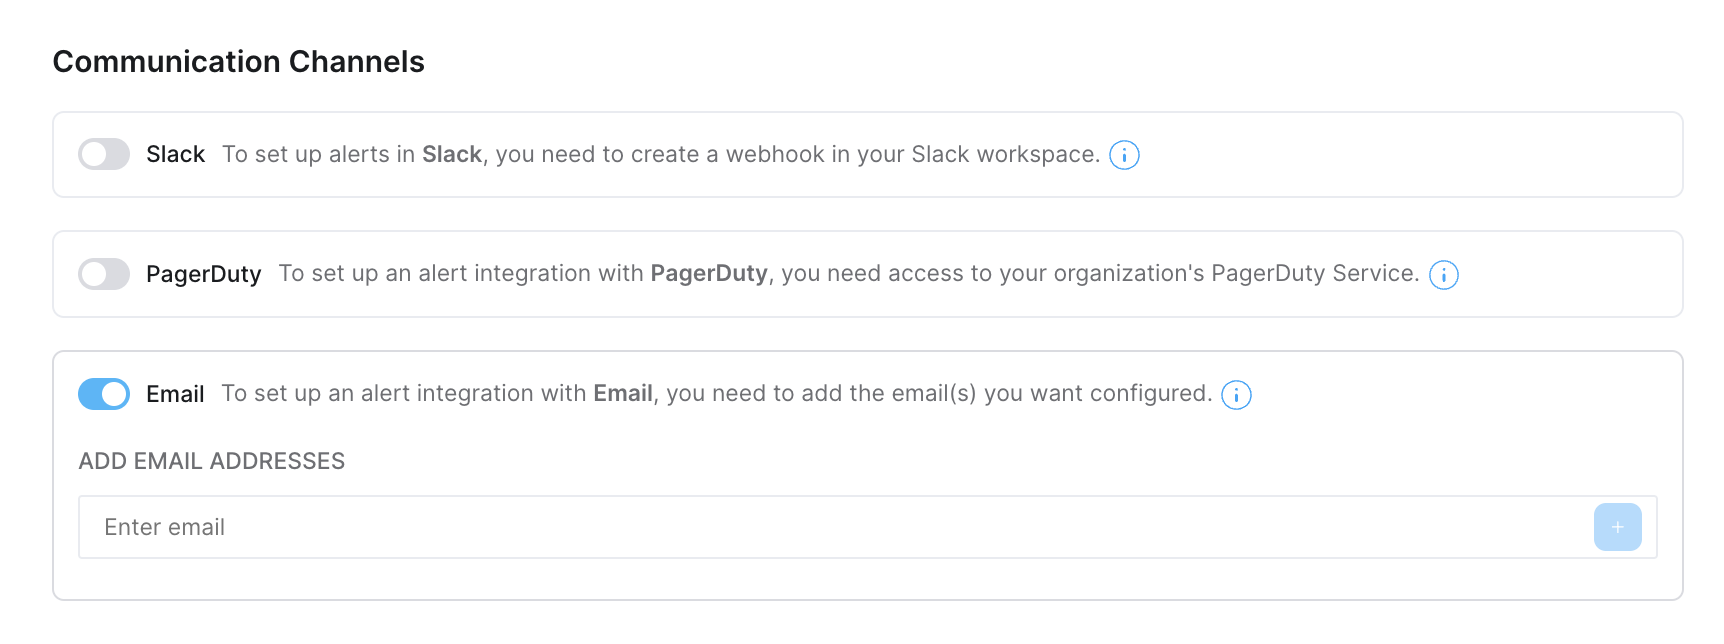
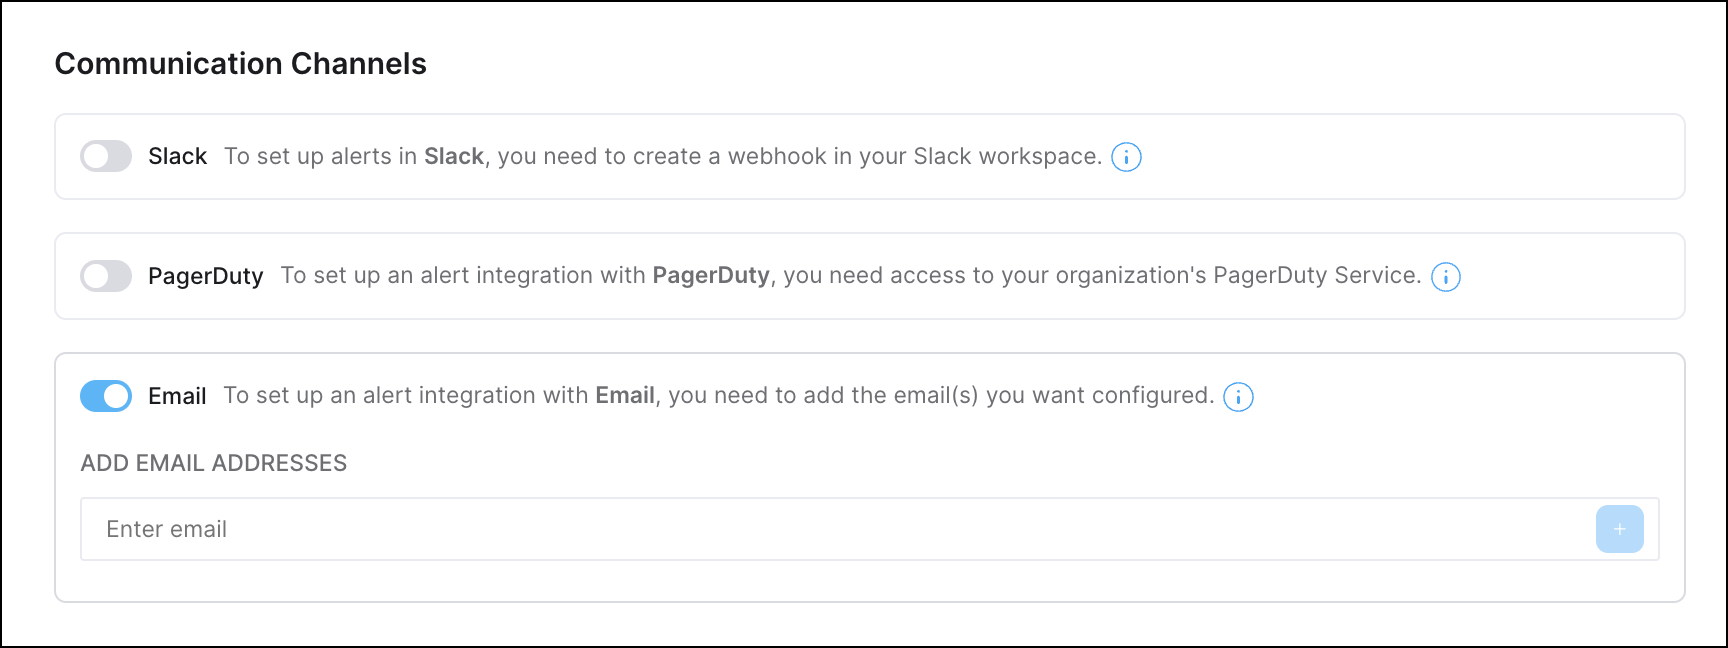
Fix borders add review comments

diff --git a/astro/alerts.md b/astro/alerts.md
@@ -55,7 +55,7 @@ To set up alerts in Slack, you need to create a Slack app in your Slack workspac
 
 4. Select **Incoming webhooks**.
 
-5. On the [**Incoming webhooks** page](https://api.slack.com/messaging/webhooks), click to turn on **Activate Incoming Webhooks**.
+5. On the **Incoming webhooks** page, click the toggle to turn on **Activate Incoming Webhooks**. See [Sending messages using Incoming Webhooks](https://api.slack.com/messaging/webhooks).
 
 6. In the **Webhook URLs for your Workspace** section, click **Add new Webhook to Workspace**. 
 
@@ -153,7 +153,7 @@ In the Cloud UI, you can enable alerts from the **Workspace Settings** page.
 
 Astro alerts work whether your DAG run is manual or scheduled, so you can test your configured Astro alerts by failing your DAG manually.
 
-1.  In the Cloud UI, open the DAGs page.
+1. In the Cloud UI, click **DAGs**.
 
 2. Choose the DAG that has your alert configured.
 
